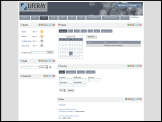
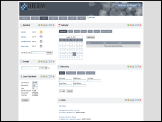
Updated version of "Blue Leaves" theme.
git-svn-id: svn://svn.liferay.com/repos/public/plugins/trunk@8743 05bdf26c-840f-0410-9ced-eb539d925f36

diff --git a/themes/blueleaves-theme/docroot/_diffs/css/custom.css b/themes/blueleaves-theme/docroot/_diffs/css/custom.css
@@ -25,7 +25,7 @@ a:hover {
 }
 
 #banner .logo {
-	background: #A0A5AA none;
+	background: transparent none;
 }
 
 .loading-animation {
